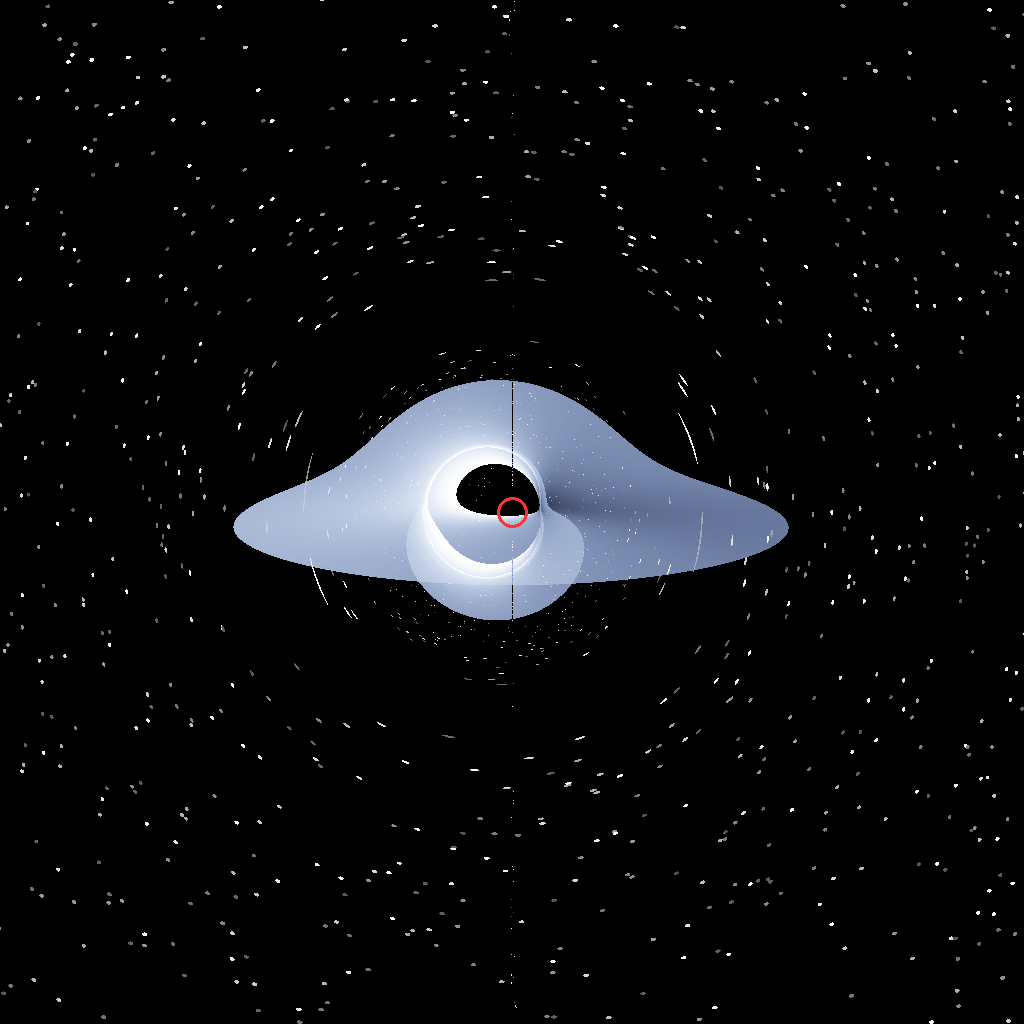
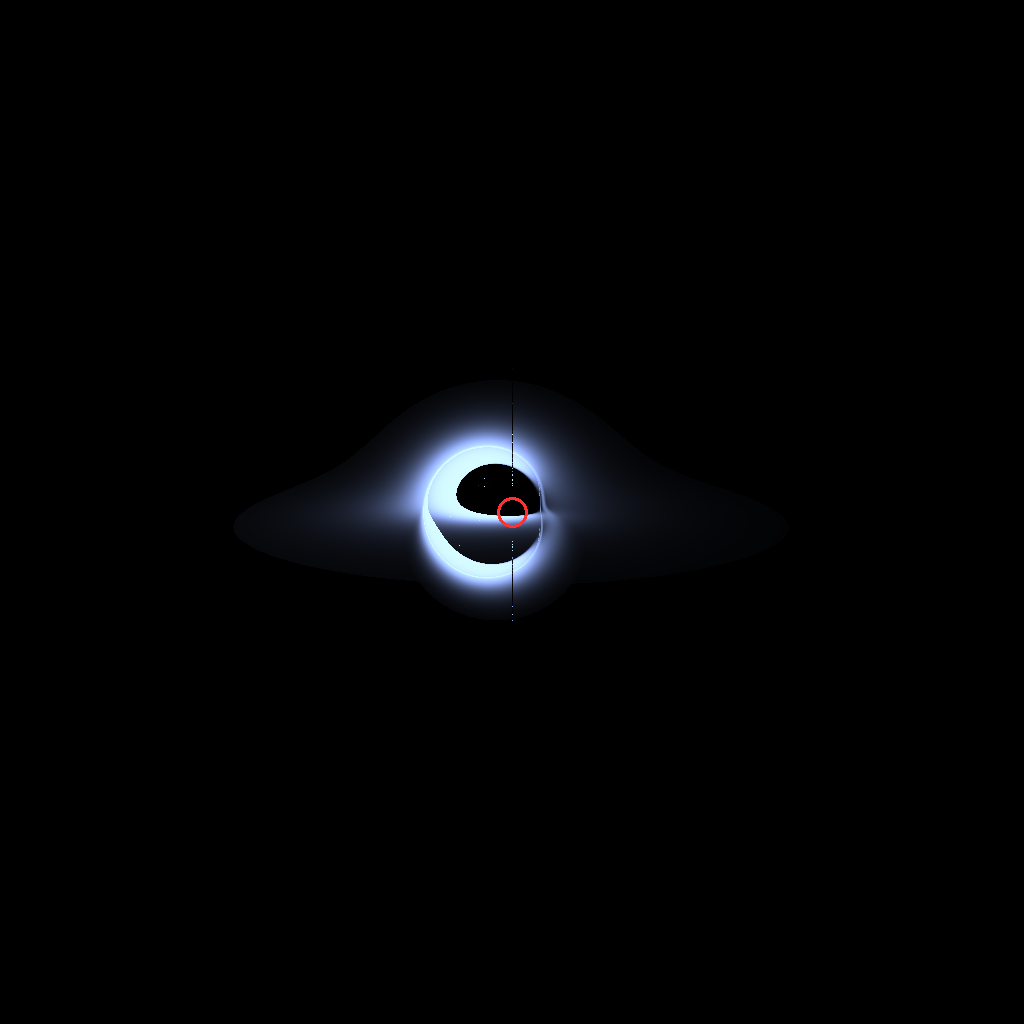
feat: add chromaticity and luminosity calculations to SpectrumLUT; enhance AccretionDisk emission function; implement HDR tone mapping adjustments

Changed region(s): [[0.2188, 0.3438, 0.7812, 0.625]]

diff --git a/src/tonemapper.cpp b/src/tonemapper.cpp
@@ -1,16 +1,33 @@
 #include "grrt/render/tonemapper.h"
 #include <cmath>
+#include <algorithm>
 
 namespace grrt {
 
 Vec3 ToneMapper::apply(const Vec3& hdr) const {
-    auto reinhard = [](double c) { return c / (1.0 + c); };
-    auto gamma = [](double v) { return std::pow(v, 1.0 / 2.2); };
+    // Compute luminance (perceptual brightness)
+    double L = 0.2126 * hdr[0] + 0.7152 * hdr[1] + 0.0722 * hdr[2];
+    if (L <= 0.0) return {};
+
+    // Exposure: scale down to bring HDR values into tone-mappable range
+    double exposure = 1e-8;
+    double L_scaled = L * exposure;
+
+    // Luminance-based Reinhard: preserves color ratios better than per-channel
+    // Maps [0, ∞) → [0, 1)
+    double L_mapped = L_scaled / (1.0 + L_scaled);
+
+    // Scale RGB by the luminance ratio to preserve chrominance
+    double scale = L_mapped / L;
+
+    auto gamma = [](double v) {
+        return std::pow(std::clamp(v, 0.0, 1.0), 1.0 / 2.2);
+    };
 
     return {{
-        gamma(reinhard(hdr[0])),
-        gamma(reinhard(hdr[1])),
-        gamma(reinhard(hdr[2]))
+        gamma(hdr[0] * scale),
+        gamma(hdr[1] * scale),
+        gamma(hdr[2] * scale)
     }};
 }
 

diff --git a/cli/main.cpp b/cli/main.cpp
@@ -67,6 +67,20 @@ int main() {
     int result = grrt_render(ctx, framebuffer.data());
 
     if (result == 0) {
+        // Debug: compare disk brightness left vs right at disk height
+        int mid_y = params.height / 2;  // equatorial row
+        int left_x = params.width / 4;
+        int right_x = 3 * params.width / 4;
+        auto px = [&](int x, int y) -> double {
+            int idx = (y * params.width + x) * 4;
+            double r = framebuffer[idx], g = framebuffer[idx+1], b = framebuffer[idx+2];
+            return std::sqrt(r*r + g*g + b*b);
+        };
+        double left_val = px(left_x, mid_y);
+        double right_val = px(right_x, mid_y);
+        std::println("Disk brightness (tone-mapped) — left({},{})={:.4f}  right({},{})={:.4f}  ratio={:.2f}",
+                     left_x, mid_y, left_val, right_x, mid_y, right_val,
+                     left_val / std::max(right_val, 1e-10));
         // Convert float RGBA [0,1] to uint8 RGBA [0,255]
         std::vector<unsigned char> pixels(params.width * params.height * 4);
         for (int i = 0; i < params.width * params.height * 4; ++i) {

diff --git a/src/spectrum.cpp b/src/spectrum.cpp
@@ -112,4 +112,22 @@ Vec3 SpectrumLUT::temperature_to_color(double temperature) const {
     return color * lum;
 }
 
+Vec3 SpectrumLUT::chromaticity(double temperature) const {
+    temperature = std::clamp(temperature, t_min_, t_max_);
+
+    double frac = (temperature - t_min_) / (t_max_ - t_min_) * (num_entries_ - 1);
+    int idx = static_cast<int>(frac);
+    double t = frac - idx;
+
+    if (idx >= num_entries_ - 1) return color_lut_[num_entries_ - 1];
+    return color_lut_[idx] * (1.0 - t) + color_lut_[idx + 1] * t;
+}
+
+double SpectrumLUT::luminosity(double temperature) const {
+    // Luminosity = σT⁴, computed analytically — never clamped.
+    // Normalized relative to t_max so values near the LUT ceiling are ~1.0.
+    double ratio = temperature / t_max_;
+    return ratio * ratio * ratio * ratio;
+}
+
 } // namespace grrt

diff --git a/src/accretion_disk.cpp b/src/accretion_disk.cpp
@@ -2,6 +2,7 @@
 #include <cmath>
 #include <algorithm>
 #include <numbers>
+#include <cstdio>
 
 namespace grrt {
 
@@ -138,9 +139,11 @@ Vec3 AccretionDisk::emission(double r_cross, const Vec4& p_cross,
     double T_obs = g * T;
     if (T_obs < 100.0) return {};
 
-    Vec3 color = spectrum.temperature_to_color(T_obs);
-    double g3 = g * g * g;
-    return color * g3;
+    Vec3 chroma = spectrum.chromaticity(T_obs);
+    double lum = spectrum.luminosity(T);
+    double g4 = g * g * g * g;
+
+    return chroma * (lum * g4);
 }
 
 } // namespace grrt

diff --git a/include/grrt/color/spectrum.h b/include/grrt/color/spectrum.h
@@ -13,6 +13,12 @@ public:
     // Look up color × luminosity for a given temperature
     Vec3 temperature_to_color(double temperature) const;
 
+    // Look up chromaticity only (no luminosity scaling) for a given temperature
+    Vec3 chromaticity(double temperature) const;
+
+    // Look up relative luminosity (σT⁴ normalized) for a given temperature
+    double luminosity(double temperature) const;
+
 private:
     double t_min_;
     double t_max_;
